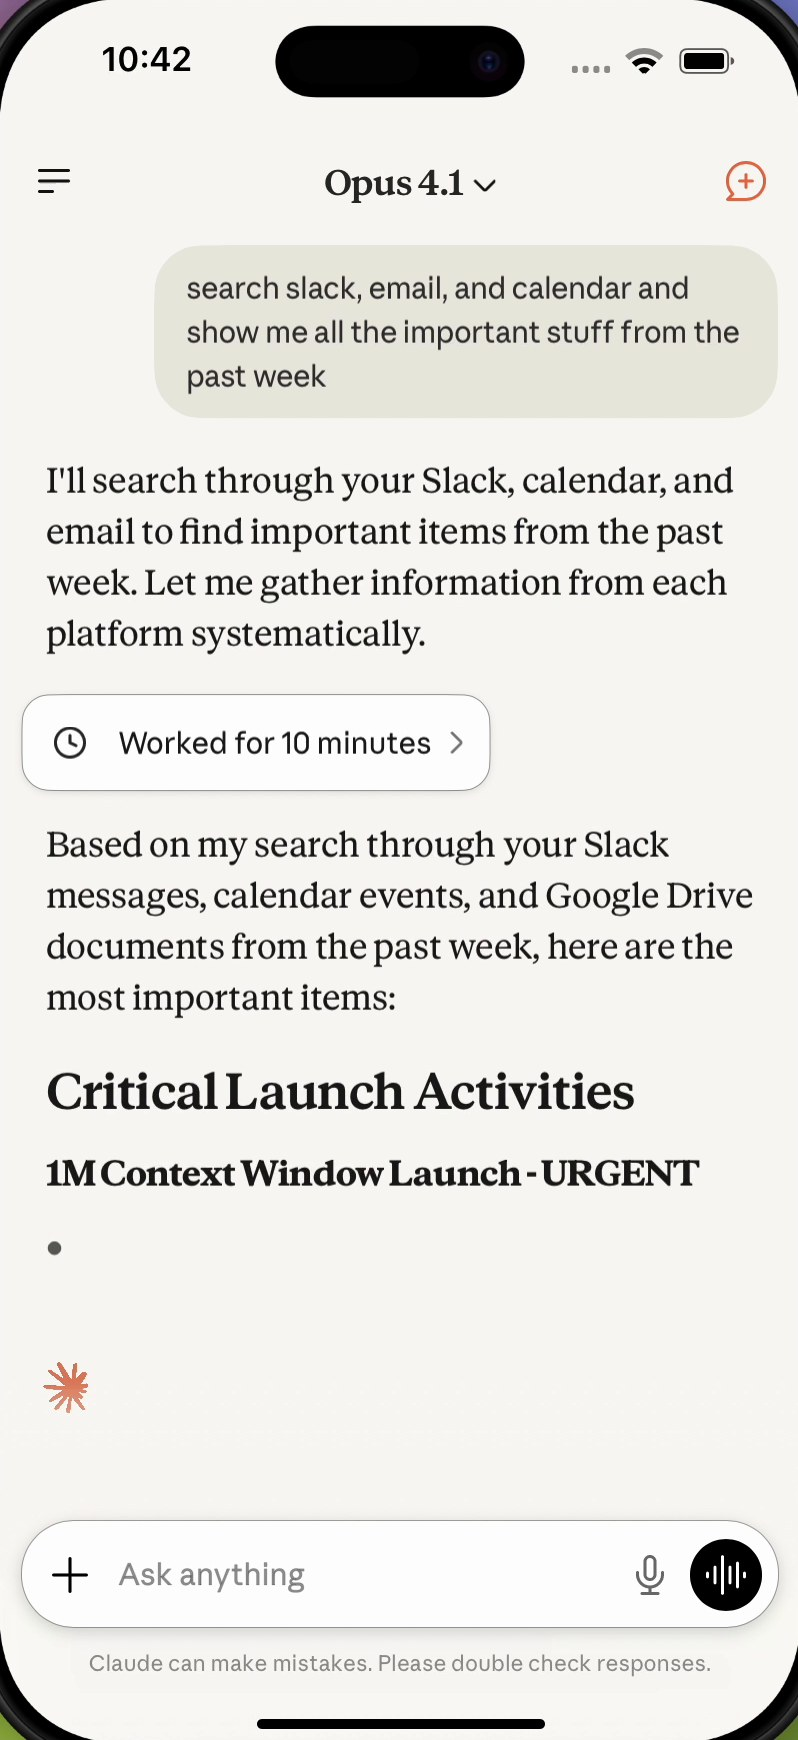
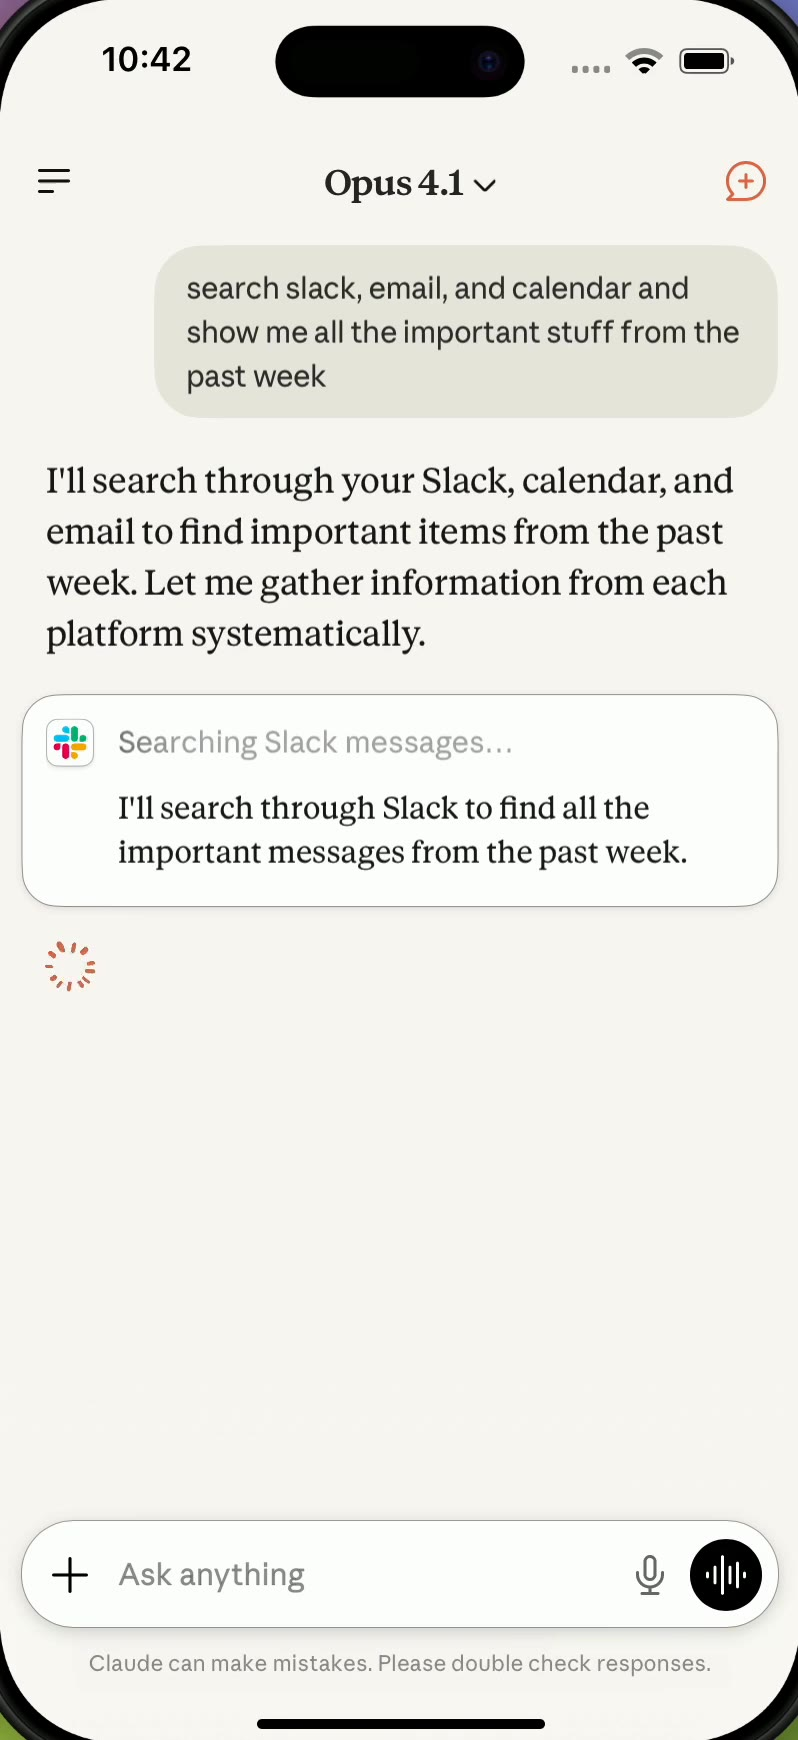
Tool Use: title, searching-Slack thumbnail, framing that never shows the top bar or composer; Progressive Blur 2024
Claude-Session: https://claude.ai/code/session_01KWunyGjQtk3sCnGrUXUHPS

diff --git a/src/content/work/research.md b/src/content/work/research.md
@@ -1,11 +1,11 @@
 ---
-title: Untitled
+title: Tool Use
 summary: Placeholder summary. Replace with a one-line description of the project.
 role: Product designer
 year: "2025"
 order: 10
 cover:
-  aspect: 0.684   # 422 × 617, like the other phone covers
+  aspect: 0.82    # a little wider than the phone covers: room for backdrop either side of the zoomed phone
   shader: gradient
   angle: 250
   palette: blue
@@ -14,14 +14,14 @@ cover:
     webm: images/work/research.webm
     mp4: images/work/research.mp4
     poster: images/work/research.jpg
-    start: 40
-    rest: [0.5, 0.5, 1.7]   # thumbnail: the summary, in close on the middle of the phone
+    start: 9
+    rest: [0.5, 0.49, 1.7]   # thumbnail: searching Slack, with a little backdrop either side
     # [seconds, x, y, zoom]: stays in close on the middle of the phone (no top
     # bar or composer): the request and each source being searched, then down
     # to the summary as it streams in, and the tap that opens its steps.
     camera:
-      - [0, 0.5, 0.42, 1.7]
-      - [33.5, 0.5, 0.42, 1.7]
+      - [0, 0.5, 0.49, 1.7]        # never the top bar or the composer: zoom and height keep both out of frame
+      - [33.5, 0.5, 0.49, 1.7]
       - [35.5, 0.5, 0.5, 1.7]      # the summary streams in
       - [43.4, 0.5, 0.5, 1.7]      # tap Worked for 10 minutes; the sheet opens
 ---

diff --git a/src/content/work/progressive-blur.md b/src/content/work/progressive-blur.md
@@ -2,7 +2,7 @@
 title: Progressive Blur
 summary: Placeholder summary. Replace with a one-line description of the project.
 role: Product designer
-year: "20XX"
+year: "2024"
 order: 4
 cover:
   aspect: 1.25   # 771 × 617: wide, for desktop
